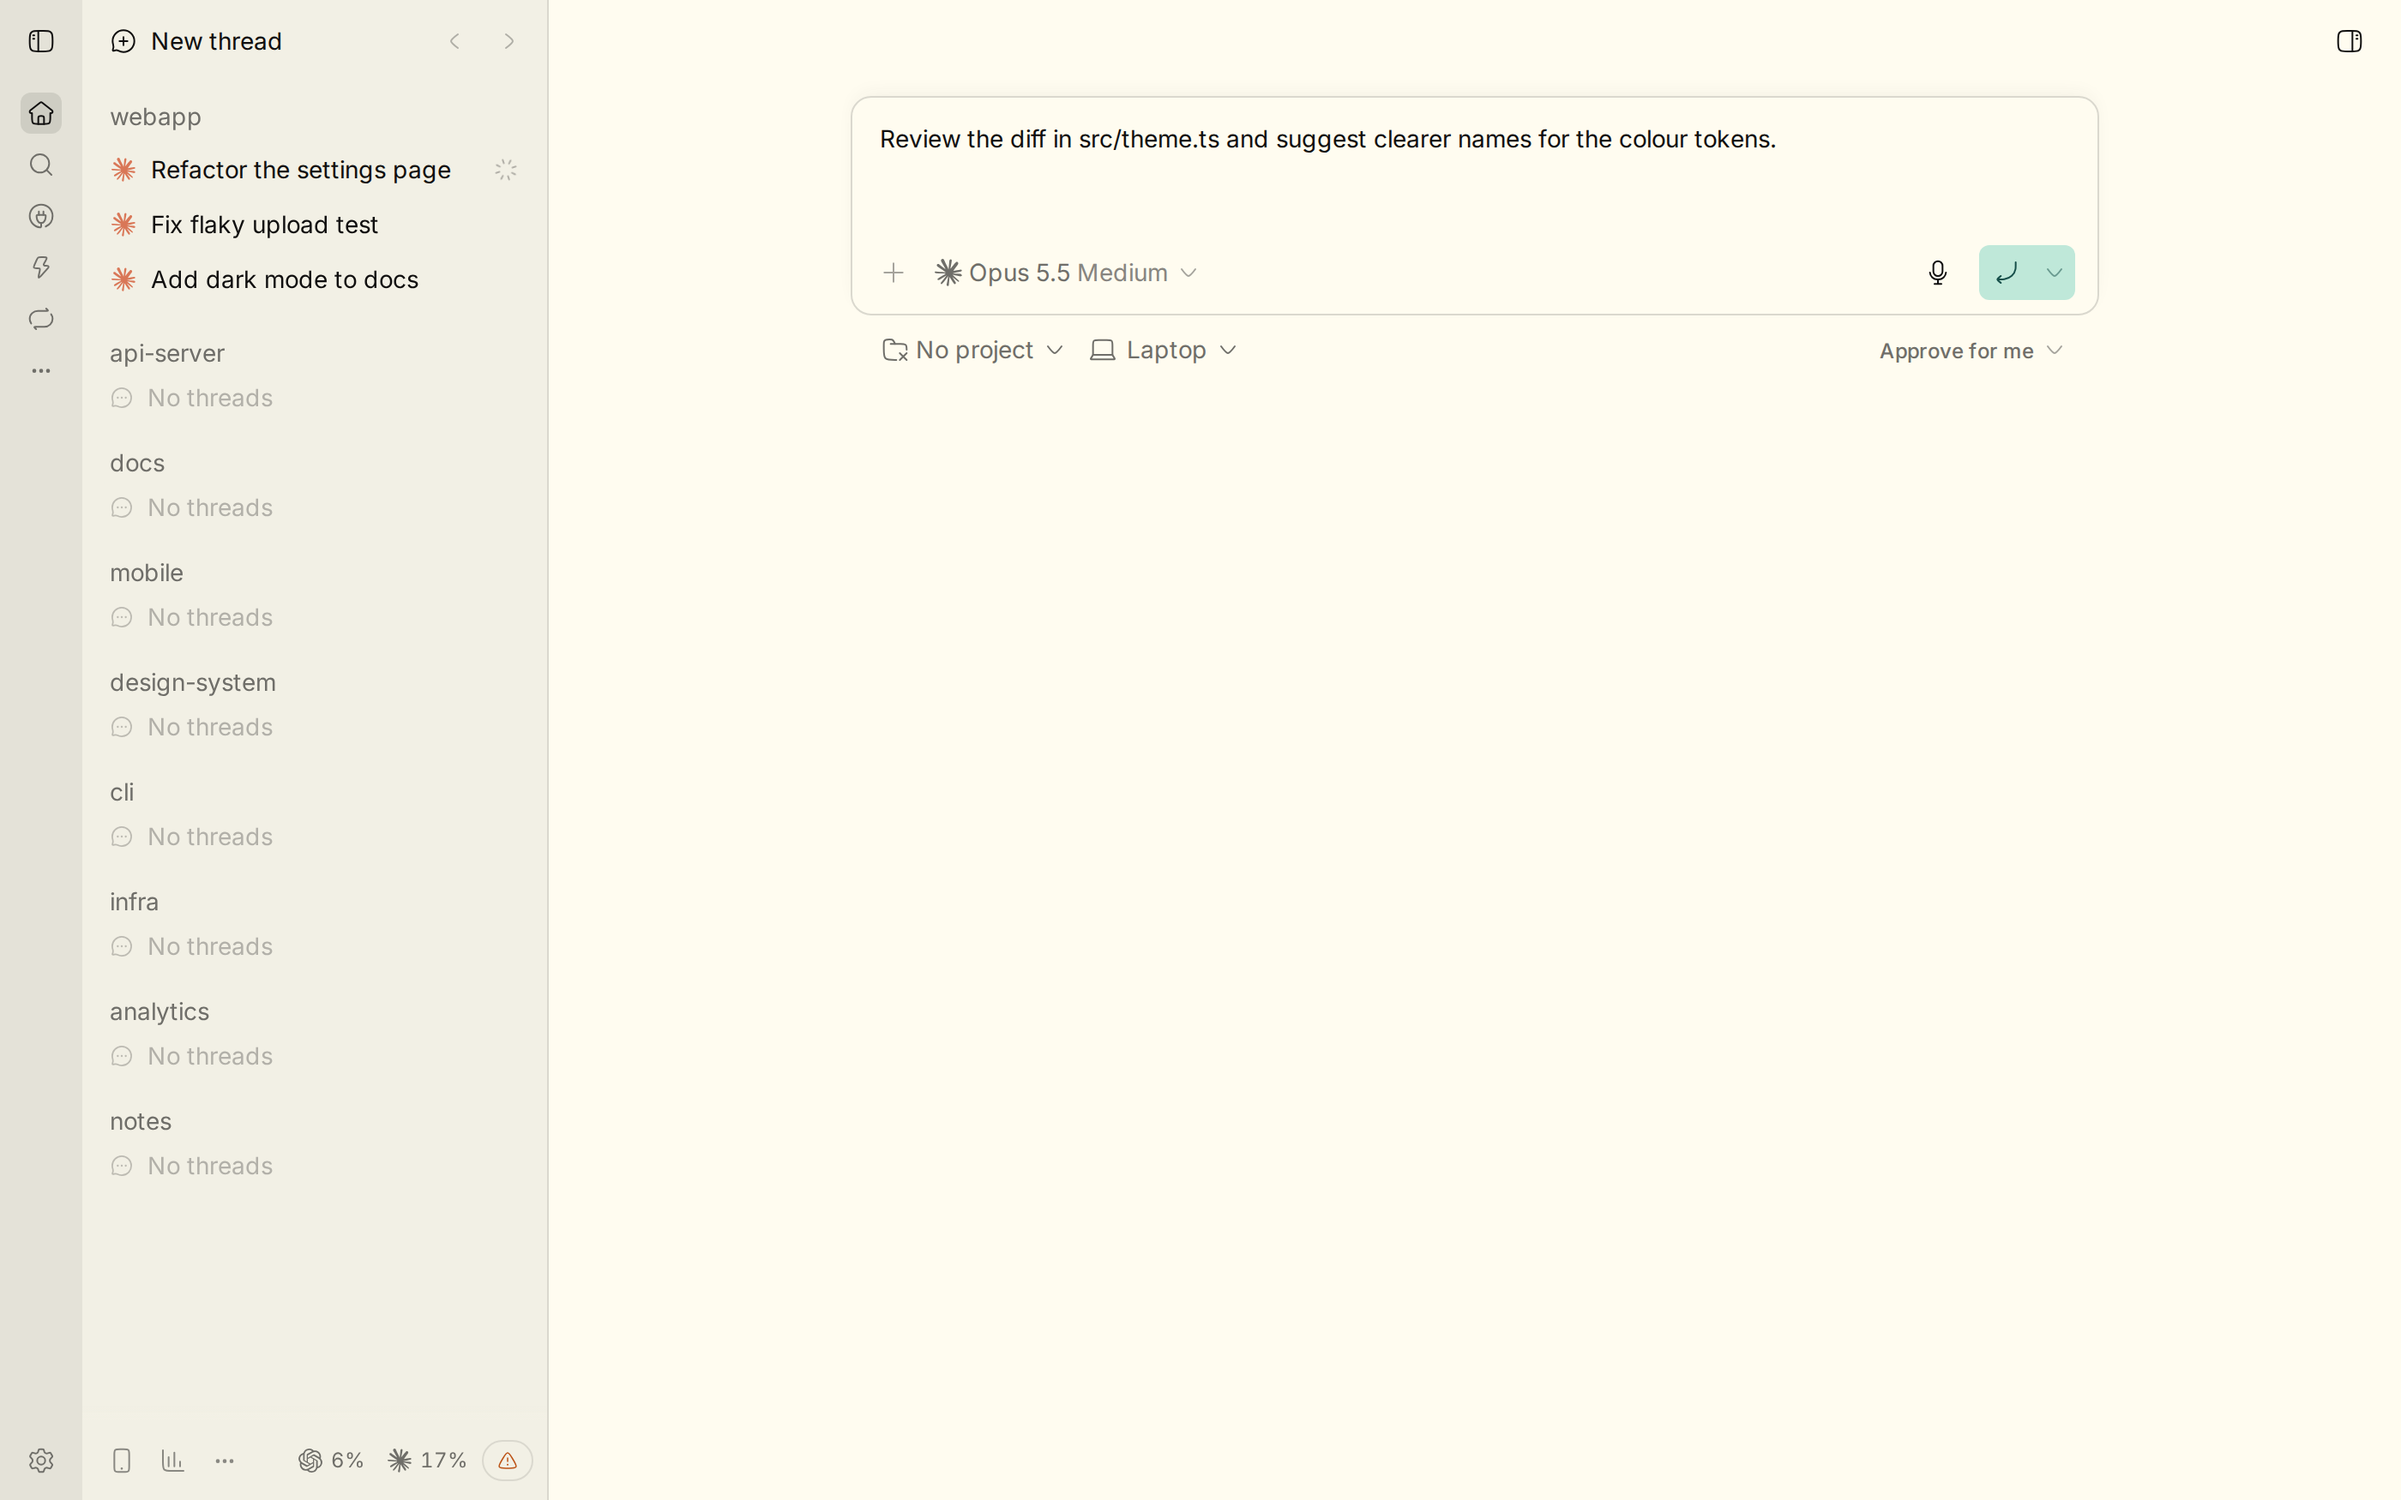
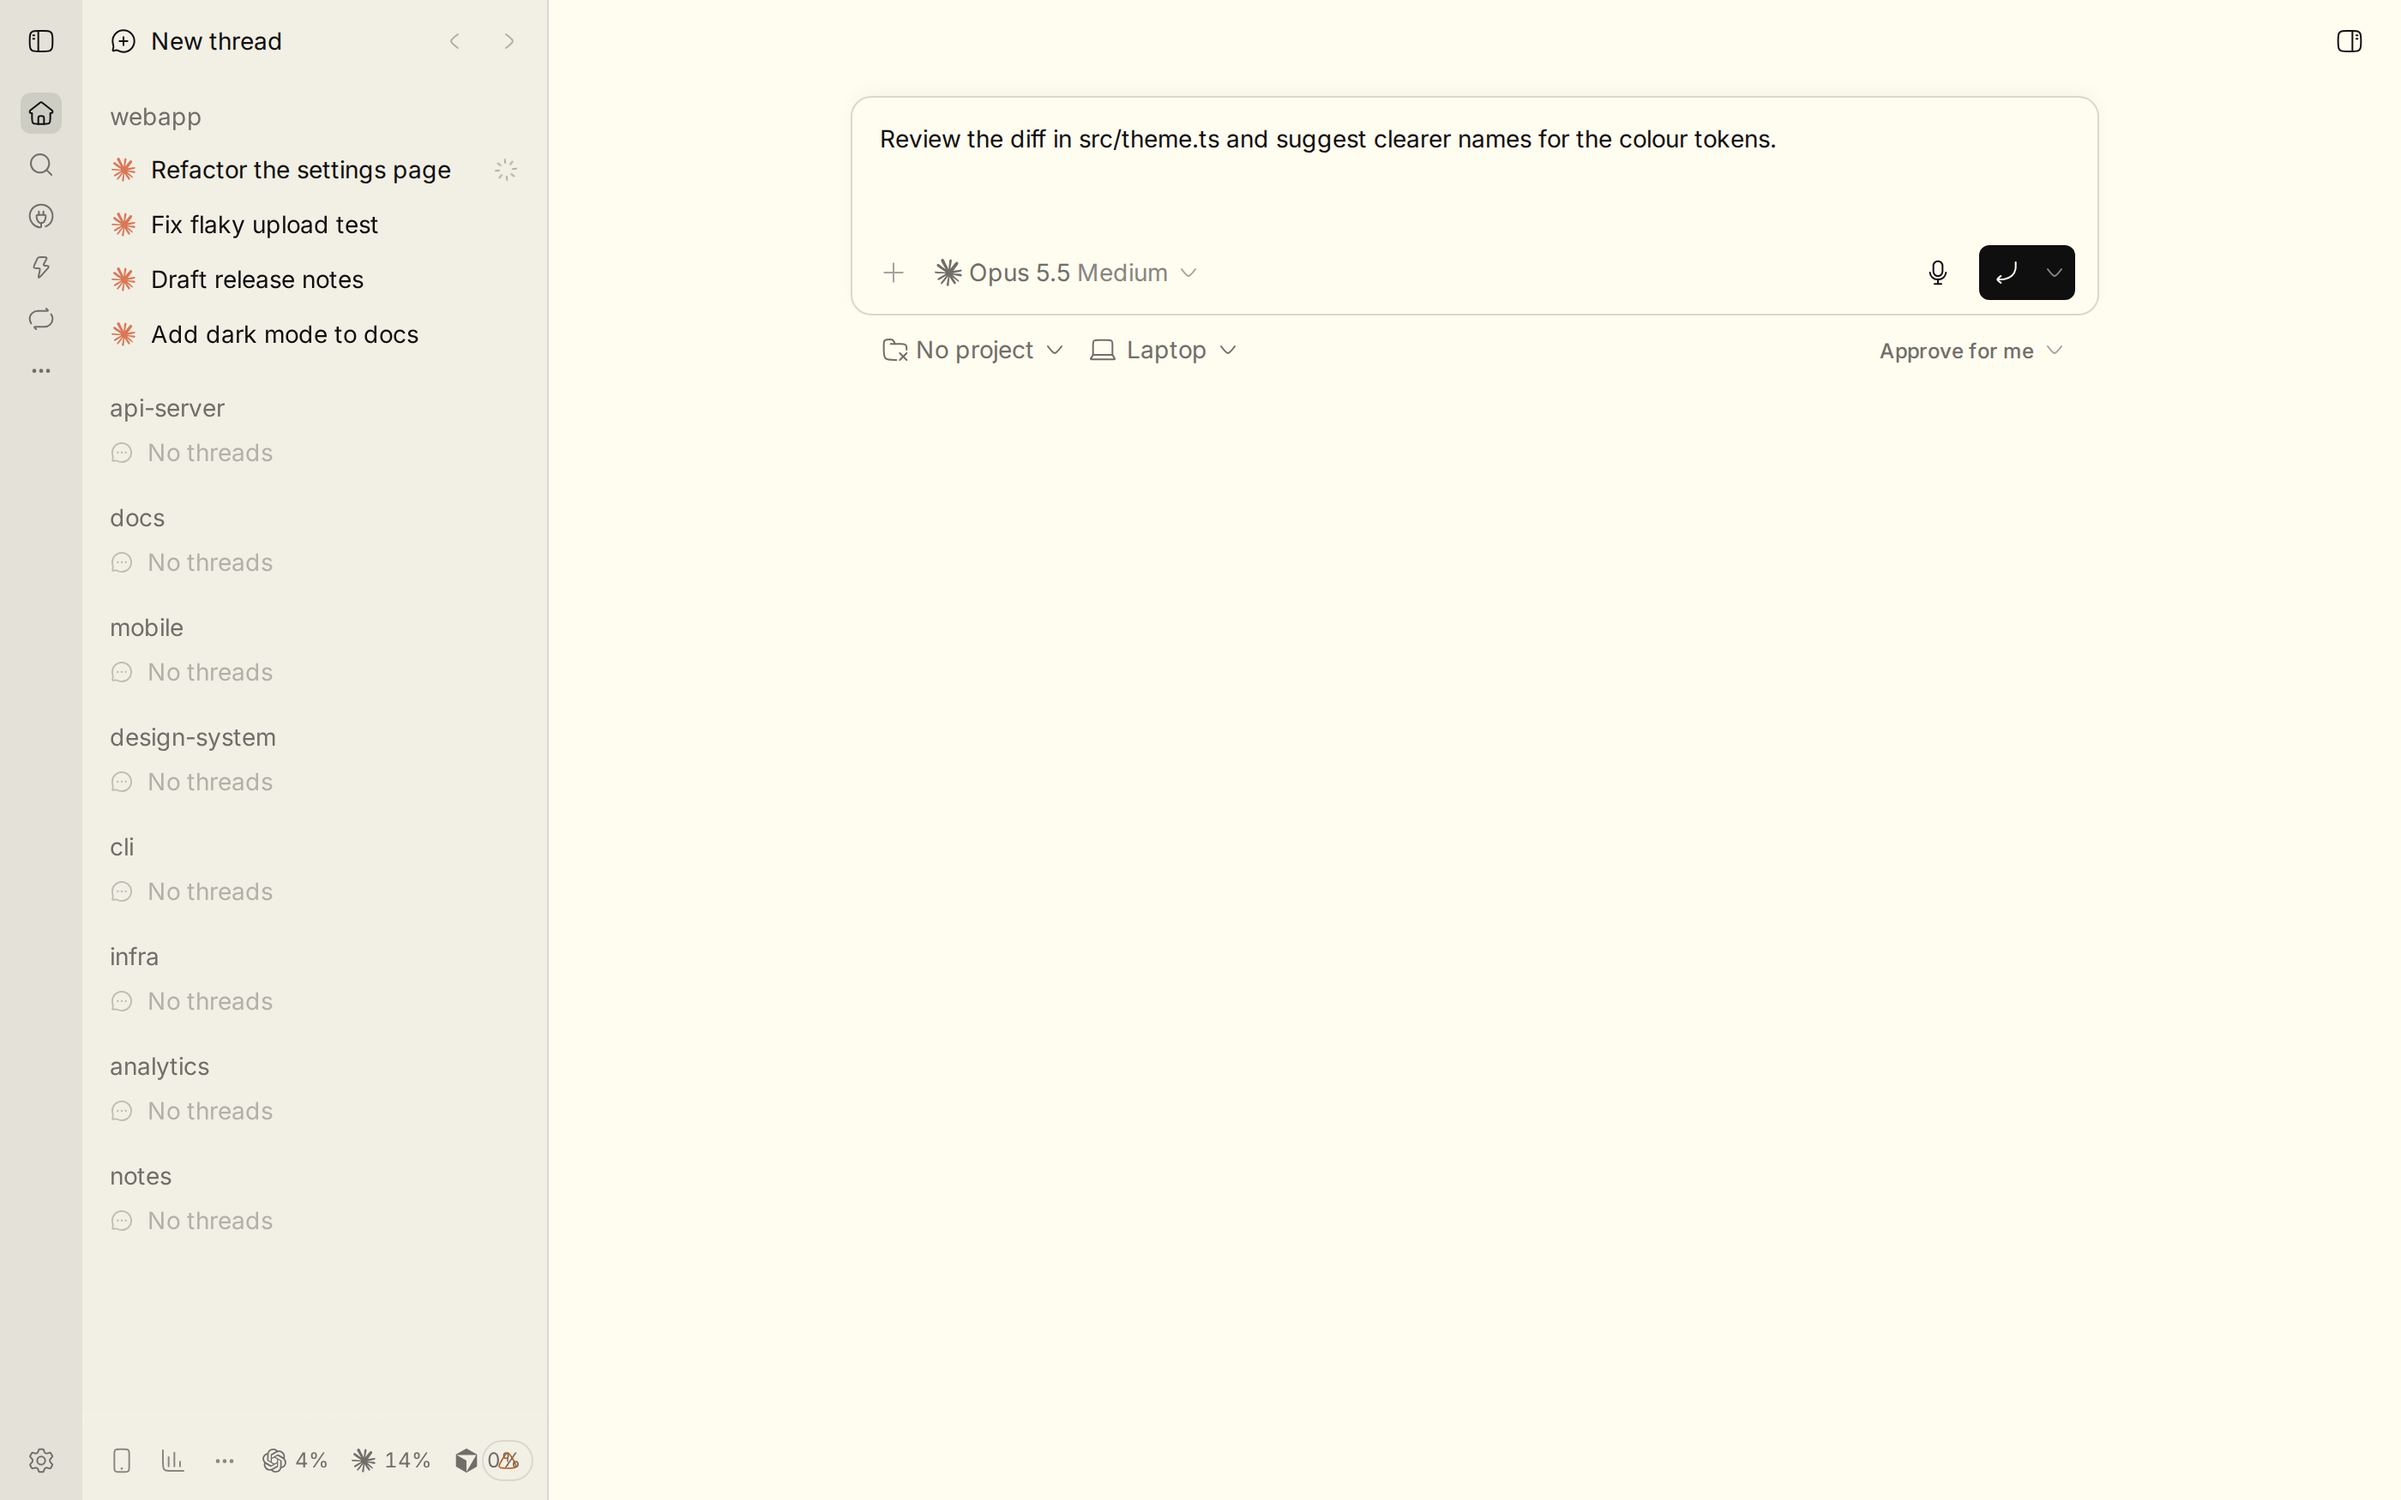
revert: restore the original send button (0.1.2) (#3)
Reverts the soft cyan send button from 0.1.1 and its screenshots.

diff --git a/themes/flexoki.css b/themes/flexoki.css
@@ -214,11 +214,6 @@ form[class*="group/promptbox"] .ProseMirror { font-size: var(--composer); line-h
   line-height: var(--text-sm--line-height);
 }
 
-/* Send button: soft cyan tint instead of a solid ink/paper block.
-   Light: cyan-100 fill, cyan-800 icon (7.0:1). Dark: cyan-850 fill, cyan-200 icon (6.7:1). */
-div[class*="group/send"] { background-color: #BFE8D9; color: #164F4A; }
-.dark div[class*="group/send"] { background-color: #143F3C; color: #87D3C3; }
-
 /* Sidebar: one size for project names, threads and hints; 30px rows. */
 [data-sidebar="sidebar"] {
   --text-xs: var(--text-sm);
